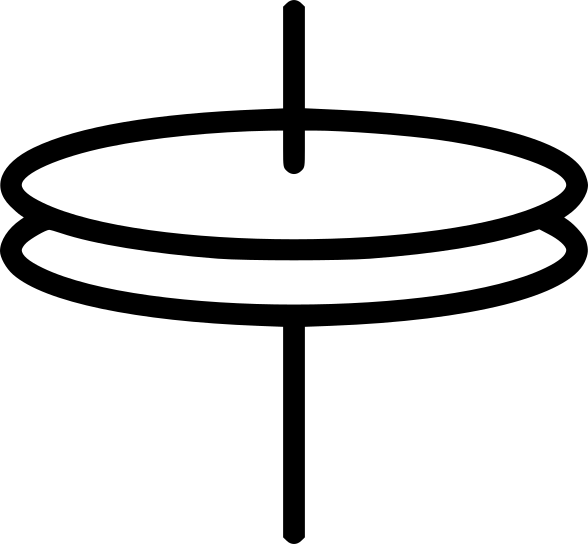
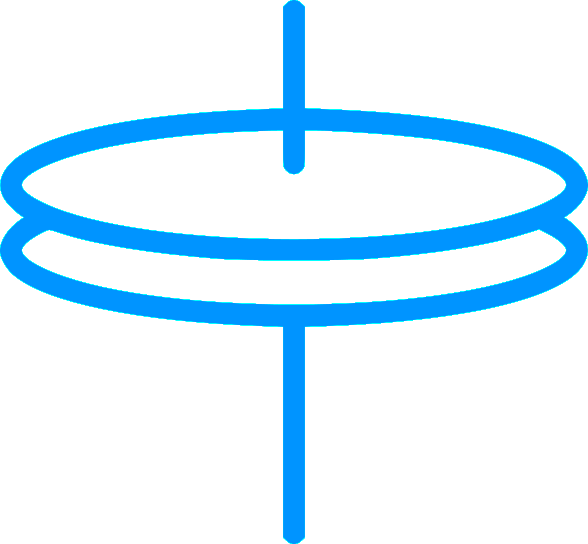
Fixed image issue with pyinstaller and also added colors to images

Changed region(s): [[0.0, 0.0, 1.0, 1.0]]

diff --git a/client_gui.py b/client_gui.py
@@ -6,6 +6,15 @@ import socket
 import client
 import music
 
+def resource_path(relative_path):
+    """ Get absolute path to resource, works for dev and for PyInstaller """
+    try:
+        # PyInstaller creates a temp folder and stores path in _MEIPASS
+        base_path = sys._MEIPASS
+    except Exception:
+        base_path = os.path.abspath(".")
+
+    return os.path.join(base_path, relative_path)
 
 class MainWindow(QMainWindow):
     def __init__(self, parent=None):
@@ -95,7 +104,7 @@ class ConnectionWidget(QWidget):
         main_vbox.addLayout(error_hbox)
 
 
-        self.setGeometry(100,100,500,300)
+        self.setGeometry(100, 100, 500, 300)
         self.setWindowTitle("SoundConnectPy")
         self.setLayout(main_vbox)
 
@@ -197,9 +206,8 @@ class MusicWidget(QWidget):
         index = self.instrument_cb.currentIndex()
 
         image_file_name = music.instrument_names[index] + ".png"
-        script_dir = os.path.dirname(__file__)
         rel_path = "assets/" + image_file_name
-        abs_file_path = os.path.join(script_dir, rel_path)
+        abs_file_path = resource_path(rel_path)
         self.instrument_image.setPixmap(QPixmap(abs_file_path))
 
     def send_clicked(self):

diff --git a/host_gui.py b/host_gui.py
@@ -118,7 +118,6 @@ class HostWidget(QWidget):
         if self.start_on:
             time_ratio = (host.FoxDotHandler.getTime() % measures) / measures
             time_x = (time_ratio * usable_sheet_width) + side_margin + clef_width
-            print time_ratio, time_x
 
             pen = QPen(Qt.blue, 4, Qt.SolidLine)
             qp.setPen(pen)
@@ -179,12 +178,14 @@ class HostWidget(QWidget):
 
 
     def getIPAddress(self):
-
-        s = socket.socket(socket.AF_INET, socket.SOCK_DGRAM)
-        s.connect(("8.8.8.8",80))
-        ip_address = (s.getsockname()[0])
-        s.close()
-        return ip_address
+        try:
+            s = socket.socket(socket.AF_INET, socket.SOCK_DGRAM)
+            s.connect(("8.8.8.8",80))
+            ip_address = (s.getsockname()[0])
+            s.close()
+            return ip_address
+        except:
+            return ""
 
     def reset(self):
         host.FoxDotHandler.reset()
